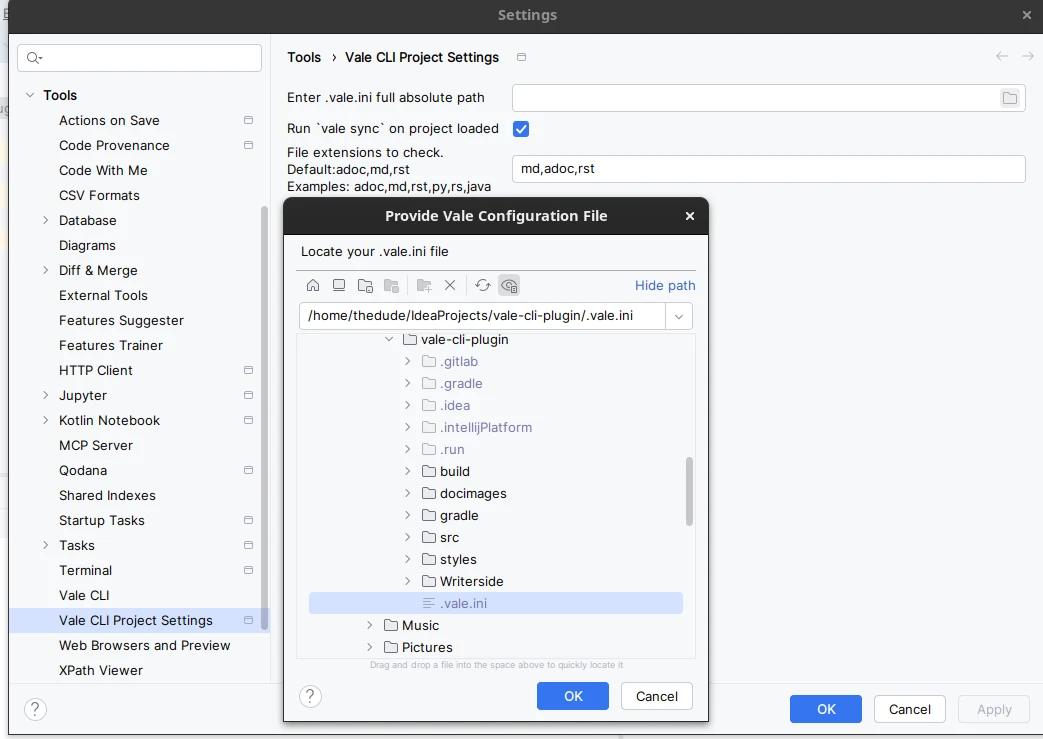
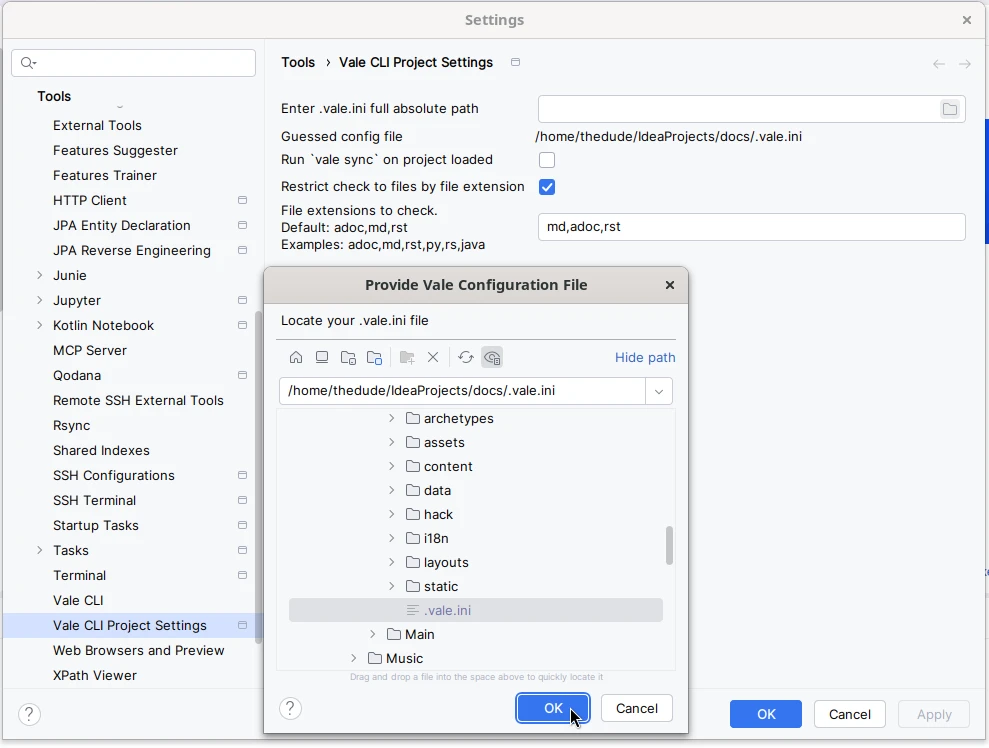
chore: prepare next release

Changed region(s): [[0.0, 0.0, 1.0, 1.0], [0.9403, 0.1245, 1.0, 0.3424]]

diff --git a/src/main/java/org/ideplugins/vale_cli_plugin/settings/ValePluginProjectSettingsState.java b/src/main/java/org/ideplugins/vale_cli_plugin/settings/ValePluginProjectSettingsState.java
@@ -5,7 +5,7 @@ import com.intellij.openapi.project.Project;
 import org.jetbrains.annotations.NotNull;
 
 @Service(Service.Level.PROJECT)
-@State(name="org.ideplugins.vale_cli_plugin_project.settings", storages = {@Storage("vale-cli.xml")})
+@State(name="org.ideplugins.vale_cli_plugin_project.settings", storages = {@Storage(value = "vale-cli.xml", roamingType = RoamingType.DEFAULT)})
 public final class ValePluginProjectSettingsState implements PersistentStateComponent<ValePluginProjectSettingsState.State> {
 
     private final @NotNull Project project;

diff --git a/Writerside/topics/starter-topic.md b/Writerside/topics/starter-topic.md
@@ -1,4 +1,4 @@
-# Vale CLI Plugin Documentation v %plugin_version%
+# Vale CLI Plugin Documentation v%plugin_version%
 
 Plugin for JetBrains IDE's that uses [Vale CLI](https://vale.sh) to lint markdown,asciidoc and other documentation formats
 
@@ -67,7 +67,8 @@ Use the Auto Detect button if the field is empty or browse to locate the vale ex
  
 1. Vale settings file location (`.vale.ini` or `_vale.ini`): required when want to use a configuration file located in a path different from [where the binary looks for it in it's search process](https://vale.sh/docs/topics/config/#search-process).  
 2. Synchronize vale styles on startup: If checked the plugin will execute `vale sync` when a project is opened. 
-3. File extensions to lint, by default set to `adoc,md,rst` ; requires at least one extension. 
+3. Restrict check to files by file extension: If unchecked, the plugin will check all file types.
+4. File extensions to lint, by default set to `adoc,md,rst` ; requires at least one extension. 
 
 > **NOTE:**
 >

diff --git a/Writerside/topics/changelog.md b/Writerside/topics/changelog.md
@@ -2,6 +2,13 @@ What's new
 =====
 This document provides an overview of the changes by release.
 
+## Release notes
+
+### 0.0.32
+* Implements [#62](https://gitlab.com/pablomxnl/vale-cli-plugin/-/issues/62) Store project-specific vale settings in sharable .idea folder
+* Implements [#60](https://gitlab.com/pablomxnl/vale-cli-plugin/-/issues/60) Option to disable restriction to file extensions
+* Fixes [#55](https://gitlab.com/pablomxnl/vale-cli-plugin/-/issues/55) Issue detecting vale in pyenv shims
+
 ### 0.0.31
 * Fixes [#61](https://gitlab.com/pablomxnl/vale-cli-plugin/-/issues/61) Do not run vale if there is no vale config available
 
